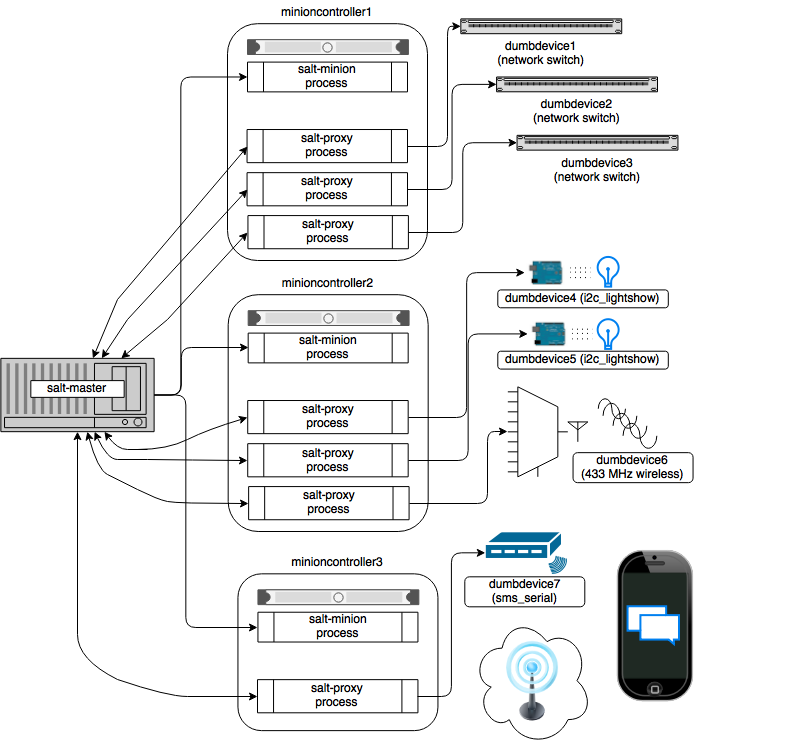
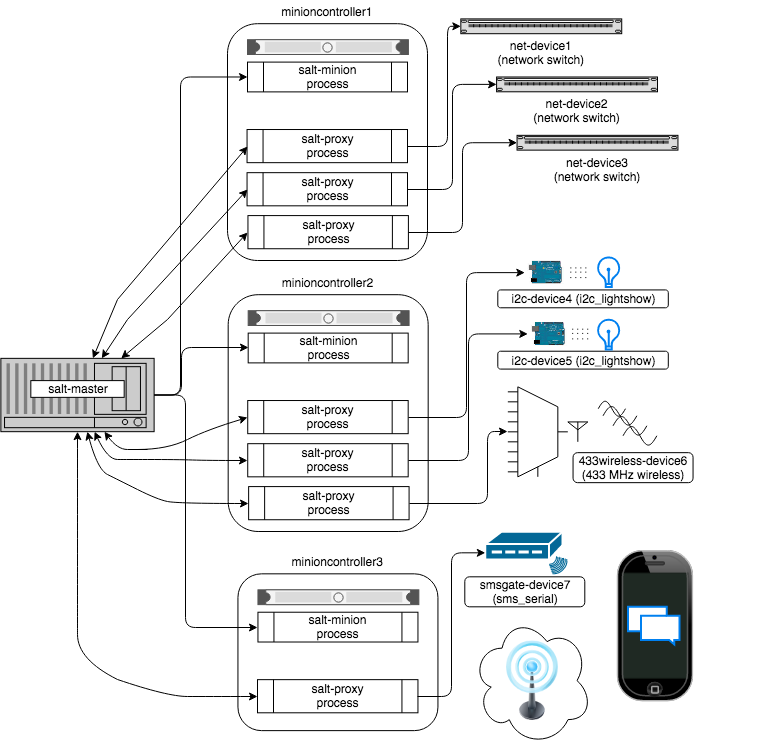
Update device names in proxy getting started docs

diff --git a/doc/topics/proxyminion/index.rst b/doc/topics/proxyminion/index.rst
@@ -188,7 +188,7 @@ The key thing to remember is the left-most section of the diagram.  Salt's
 nature is to have a minion connect to a master, then the master may control
 the minion.  However, for proxy minions, the target device cannot run a minion.
 
-After the proxy minion is started and initiates its connection to the 'dumb'
+After the proxy minion is started and initiates its connection to the
 device, it connects back to the salt-master and for all intents and purposes
 looks like just another minion to the Salt master.
 
@@ -220,23 +220,23 @@ based on the diagram above:
 .. code-block:: yaml
 
     base:
-      dumbdevice1:
-        - dumbdevice1
-      dumbdevice2:
-        - dumbdevice2
-      dumbdevice3:
-        - dumbdevice3
-      dumbdevice4:
-        - dumbdevice4
-      dumbdevice5:
-        - dumbdevice5
-      dumbdevice6:
-        - dumbdevice6
-      dumbdevice7:
-        - dumbdevice7
+      net-device1:
+        - net-device1
+      net-device2:
+        - net-device2
+      net-device3:
+        - net-device3
+      i2c-device4:
+        - i2c-device4
+      i2c-device5:
+        - i2c-device5
+      433wireless-device6:
+        - 433wireless-device6
+      smsgate-device7:
+        - device7
 
 
-``/srv/pillar/dumbdevice1.sls``
+``/srv/pillar/net-device1.sls``
 
 .. code-block:: yaml
 
@@ -247,7 +247,7 @@ based on the diagram above:
       passwd: letmein
 
 
-``/srv/pillar/dumbdevice2.sls``
+``/srv/pillar/net-device2.sls``
 
 .. code-block:: yaml
 
@@ -258,7 +258,7 @@ based on the diagram above:
       passwd: letmein
 
 
-``/srv/pillar/dumbdevice3.sls``
+``/srv/pillar/net-device3.sls``
 
 .. code-block:: yaml
 
@@ -269,7 +269,7 @@ based on the diagram above:
       passwd: letmein
 
 
-``/srv/pillar/dumbdevice4.sls``
+``/srv/pillar/i2c-device4.sls``
 
 .. code-block:: yaml
 
@@ -278,7 +278,7 @@ based on the diagram above:
       i2c_address: 1
 
 
-``/srv/pillar/dumbdevice5.sls``
+``/srv/pillar/i2c-device5.sls``
 
 .. code-block:: yaml
 
@@ -287,7 +287,7 @@ based on the diagram above:
         i2c_address: 2
 
 
-``/srv/pillar/dumbdevice6.sls``
+``/srv/pillar/433wireless-device6.sls``
 
 .. code-block:: yaml
 
@@ -295,7 +295,7 @@ based on the diagram above:
         proxytype: 433mhz_wireless
 
 
-``/srv/pillar/dumbdevice7.sls``
+``/srv/pillar/smsgate-device7.sls``
 
 .. code-block:: yaml
 
@@ -309,18 +309,18 @@ the type of device that the proxy-minion is managing.
 
 In the above example
 
-- dumbdevices 1, 2, and 3 are network switches that have a management
+- net-devices 1, 2, and 3 are network switches that have a management
   interface available at a particular IP address.
 
-- dumbdevices 4 and 5 are very low-level devices controlled over an i2c bus.
+- i2c-devices 4 and 5 are very low-level devices controlled over an i2c bus.
   In this case the devices are physically connected to machine
   'minioncontroller2', and are addressable on the i2c bus at their respective
   i2c addresses.
 
-- dumbdevice6 is a 433 MHz wireless transmitter, also physically connected to
+- 433wireless-device6 is a 433 MHz wireless transmitter, also physically connected to
   minioncontroller2
 
-- dumbdevice7 is an SMS gateway connected to machine minioncontroller3 via a
+- smsgate-device7 is an SMS gateway connected to machine minioncontroller3 via a
   serial port.
 
 Because of the way pillar works, each of the salt-proxy processes that fork off the
